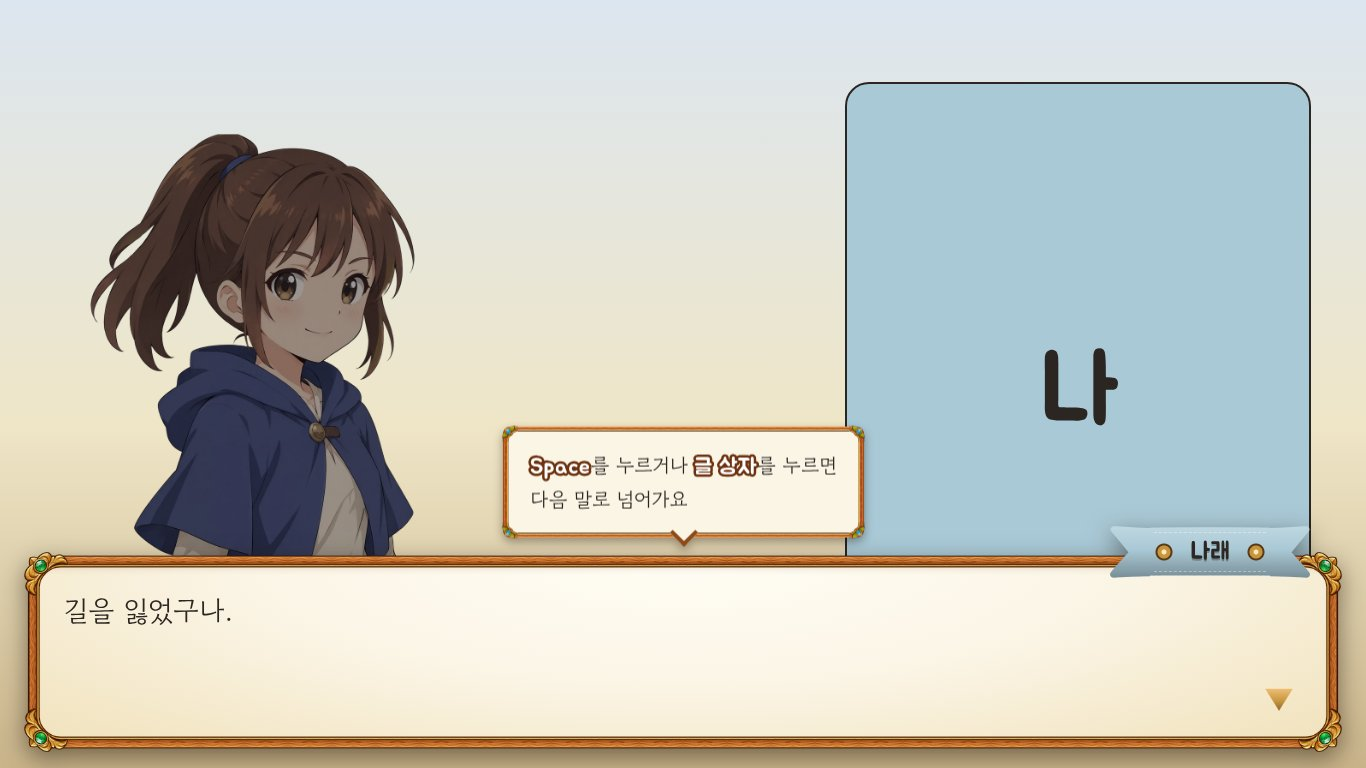
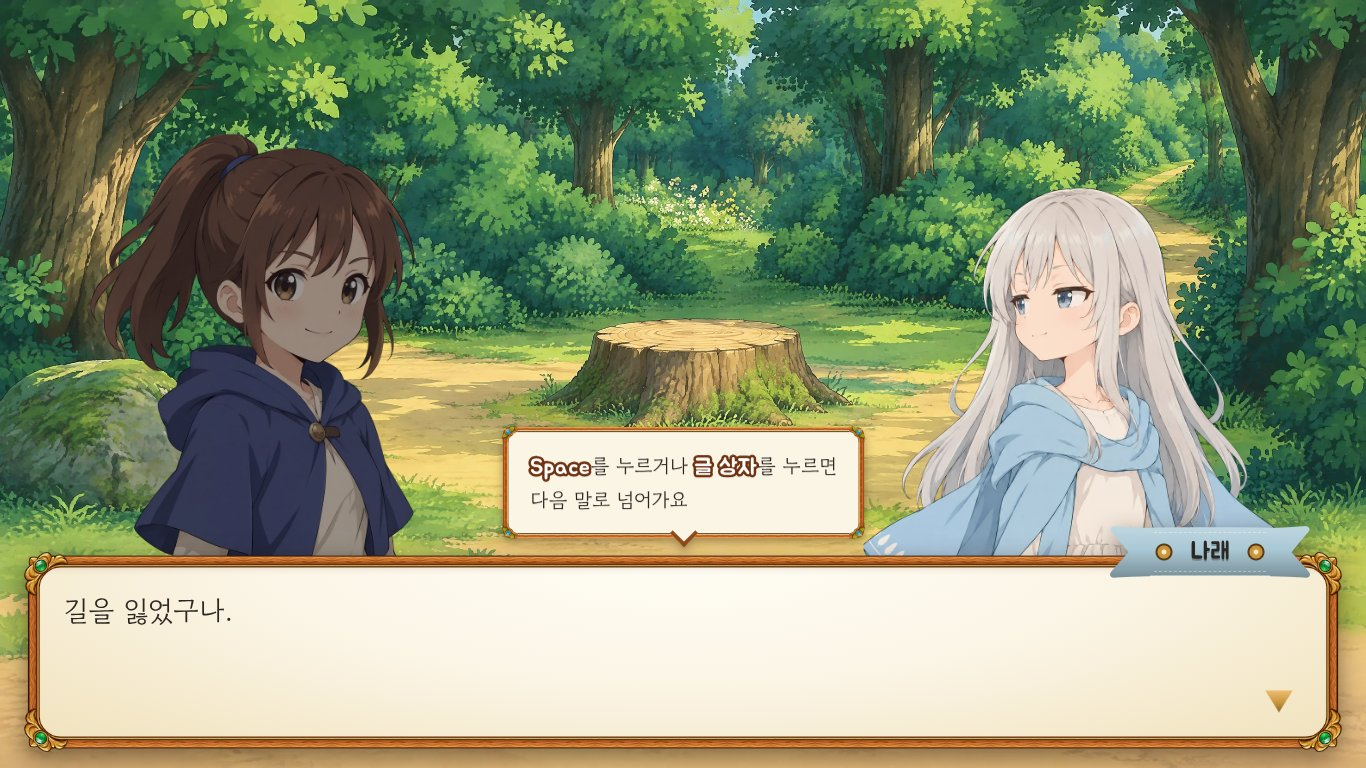
docs: act 3 screenshots with art; credit log
The 3-2 explore shot is left as it was: that map is being redrawn
separately and its shot belongs with the new map.

Claude-Session: https://claude.ai/code/session_017WoqJ7PBE5F4GzxWdiYF3d

diff --git a/docs/superpowers/plans/2026-11-04-acts2-5-art.md b/docs/superpowers/plans/2026-11-04-acts2-5-art.md
@@ -343,7 +343,7 @@ Task들은 아래 절차를 막·장 값만 바꿔 쓴다. `PY=/root/.local/shar
 | 1 2막 맵·도트 | 70 | 8 | 56 |
 | 2 2막 일러스트 | 170 | 18 | 180 (여유에서 10: 장 보는 할머니 다시 그리기) |
 | 3 3막 맵·도트 | 70 | 8 | 60 |
-| 4 3막 일러스트 | 170 | | |
+| 4 3막 일러스트 | 170 | 20 | 200 (여유에서 30: 나래 base, 여울 base, bg_ch3-2 다시 그리기) |
 | 5 4막 맵·도트 | 70 | | |
 | 6 4막 일러스트 | 140 | | |
 | 7 5막 맵·도트·세계 지도 | 78 | | |
